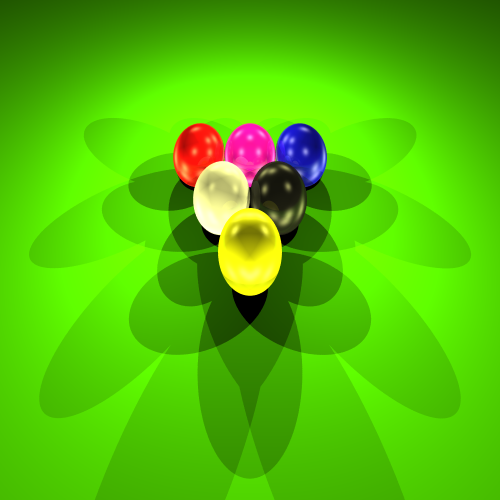
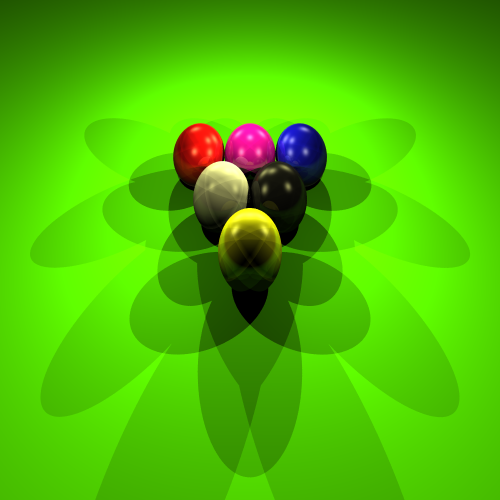
Fixed own shadow

Changed region(s): [[0.33, 0.24, 0.66, 0.6]]

diff --git a/src/Objects/Surface.java b/src/Objects/Surface.java
@@ -33,6 +33,15 @@ public abstract class Surface {
 	
 	public Objects.Color getOutputColorInPoint(Point point, Scene scene, Ray ray, RayTracer rayTracer, int recursionStep)
 	{
+		float epsilon = (float)0.01;
+		Point normal = new Point(getNormal(point).getX(), getNormal(point).getY(), getNormal(point).getZ());
+		Point smallAddOn = normal.multiply(epsilon);
+		if(this instanceof Sphere){
+			point = point.add(smallAddOn);
+		}else{
+			point = point.add(smallAddOn.multiply(-1));
+		}
+		
 		float r = 0;
 		float g = 0;
 		float b = 0;
@@ -40,13 +49,14 @@ public abstract class Surface {
 		{
 			
 			Vector v = new Vector(light.getPosition().getX() - point.getX(), light.getPosition().getY() - point.getY(), light.getPosition().getZ() - point.getZ());
+			
 			Ray rayToLight = new Ray(point, v);
 			
 			// check if there is interfering object between the surface and the light
 			boolean isInterfered = false;
 			for (Surface surface : scene.getSurfaces())
 			{
-				if ( surface != this && surface.findClosestIntesectionWithRay(rayToLight) != null)
+				if (surface.findClosestIntesectionWithRay(rayToLight) != null)
 				{
 					isInterfered = true;
 				}
